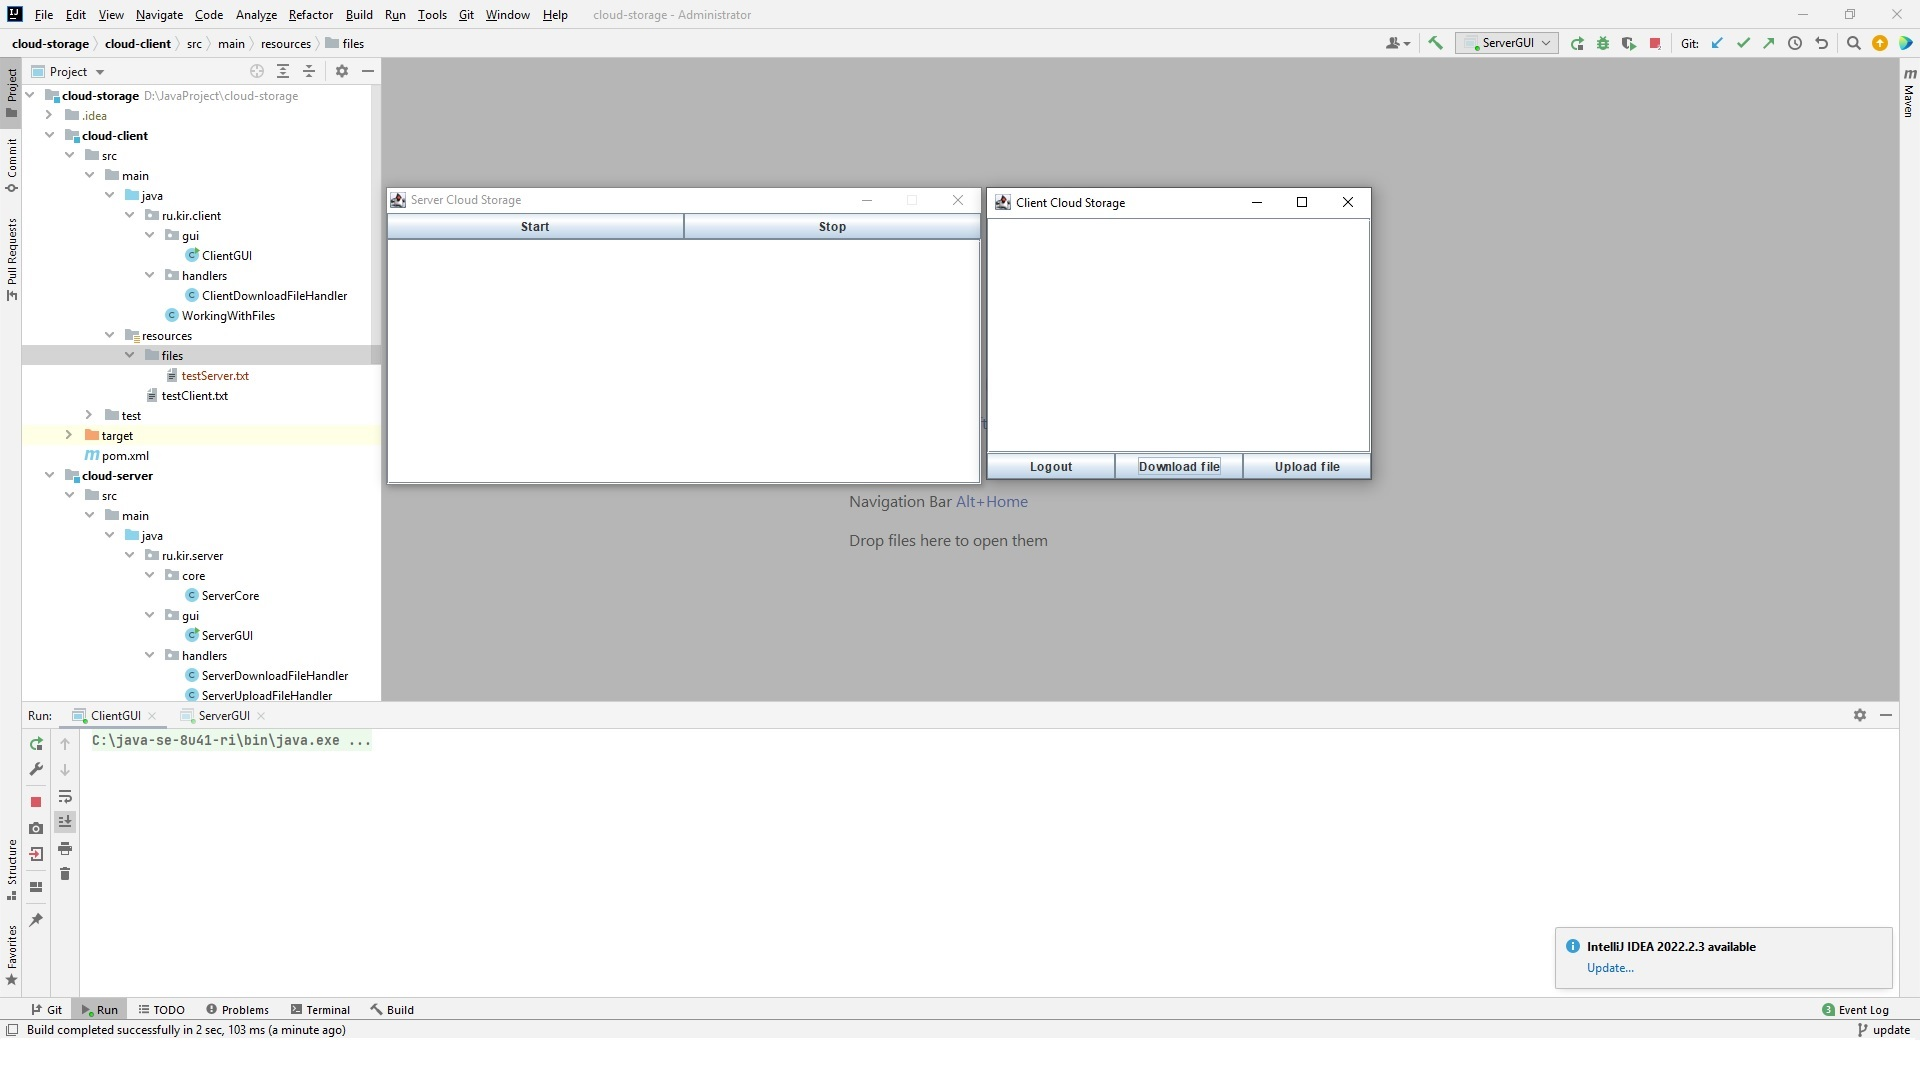
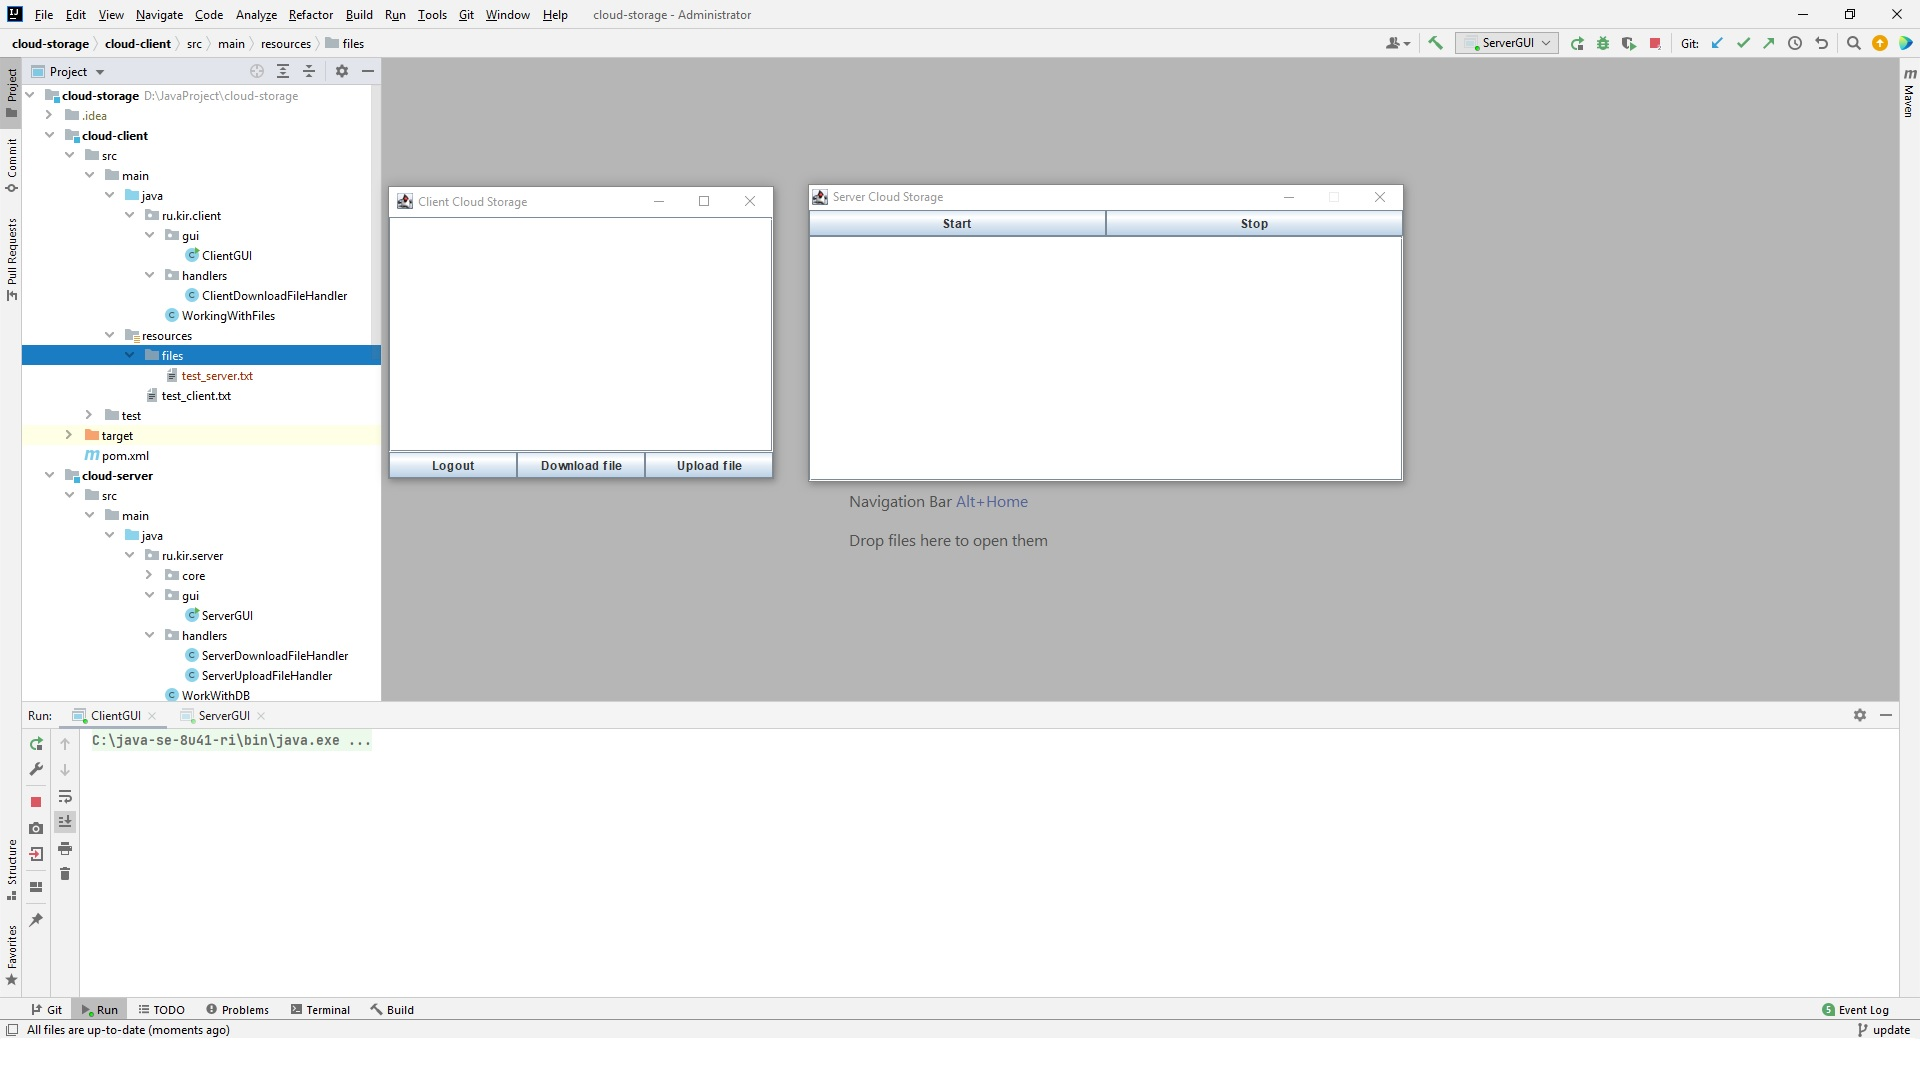
add README.md + small fixes

diff --git a/README.md b/README.md
@@ -2,8 +2,8 @@
 ___
 ##Функционал:
 ___
-* Возможность скачивание файла с сервера (скачиваемый с сервера файл: testServer.txt ).
+* Возможность скачивания файла с сервера (скачиваемый с сервера файл: test_server.txt).
 ![](screenshots/download.jpg)
   
-* Возможность загрузки файла на сервера (загружаемый на сервер файл: testClient.txt )..
+* Возможность загрузки файла на сервер (загружаемый на сервер файл: test_client.txt).
 ![](screenshots/upload.jpg)
